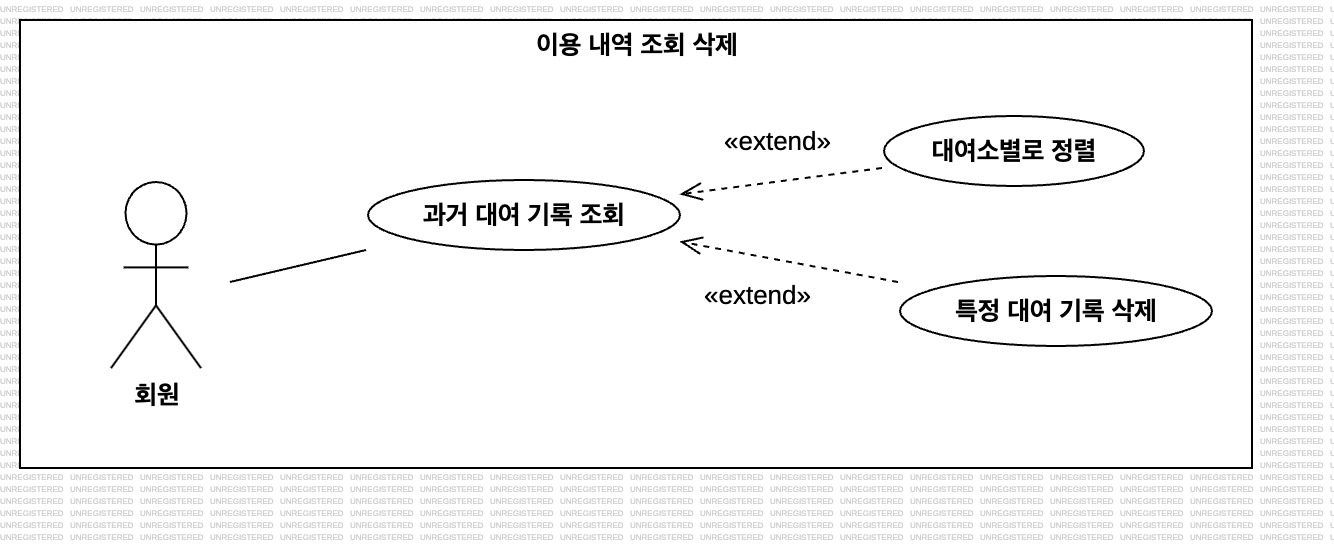
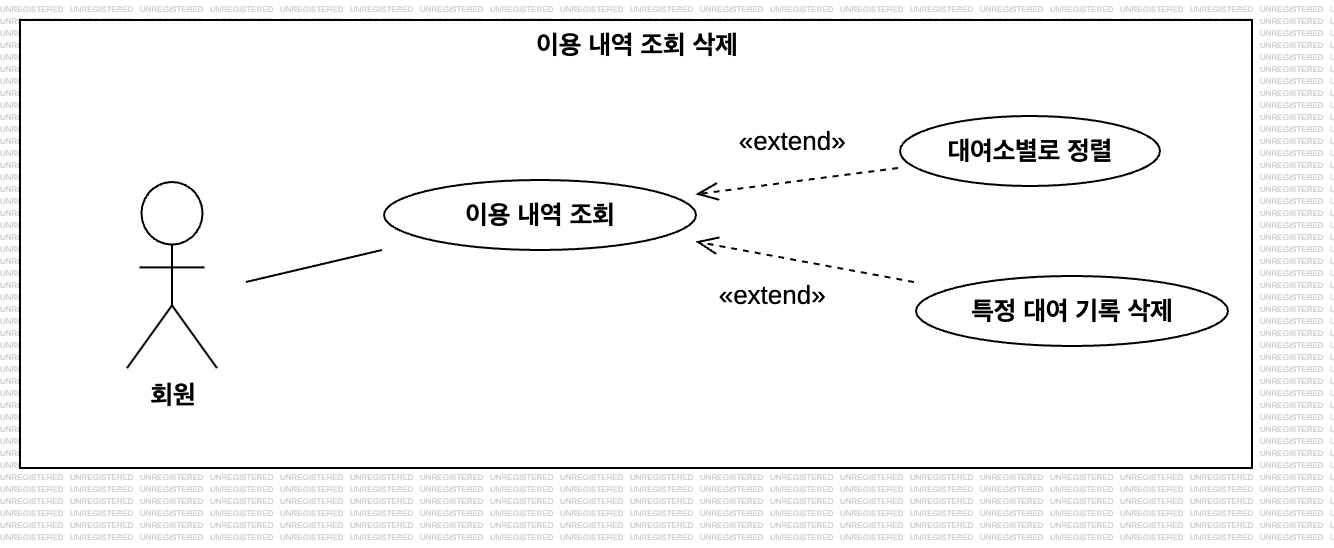
refactor: use case 이름 변경
- 과거 대여 기록 조회에서 이용 내역 조회로 변경

diff --git a/ohhamma/usage_history_usecase_description.md b/ohhamma/usage_history_usecase_description.md
@@ -1,6 +1,6 @@
 # Use Case Description
 
-### 과거 대여 기록 조회
+### 이용 내역 조회
 
 | **Actor Action** | **System Response** |
 | --- | --- |
